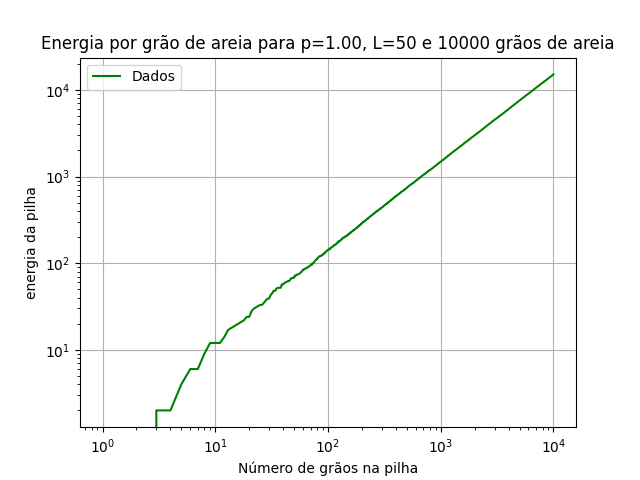
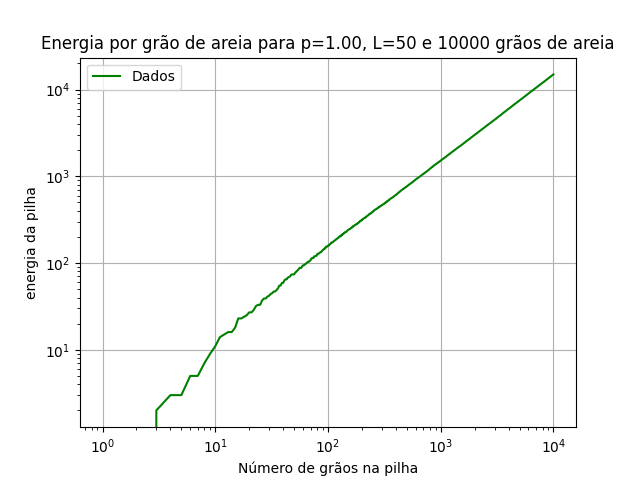
Fit gráfico da energia + Histograma

diff --git a/teste.py b/teste.py
@@ -11,7 +11,7 @@ from atualiza import atualizaSlope as atualiza
 from verifica import *
 
 #tamanho máximo do banco de areia
-L = 100            
+L = 50              
 
 #altura de cada parte da pilha 
 h = np.zeros(L)   
@@ -40,27 +40,22 @@ grao_final = 10000
 deslizamento = 0 
 
 #valor da constante p
-p = 0
+p = 1
 
 energia = np.zeros(grao_final+1)
 
 #valor da energia no início do sistema
 energia[0] = 0
 
-magnitudeAvalanche = np.zeros(grao_final+1)
-
-magnitudeAvalanche[0]= 0 
-
 while grao < grao_final:
     grao += 1               #mais um grão na pilha
     h[0] += 1               #aumenta a altura da primeira casa [0]
     z[0] += 1               #aumenta a diferença de altura da posição 0 com a 1
     e = 0
-    MagAv = 0
 
 
     #verifica se ocorre deslizamento 
-    desliza, avalanche = verifica(z,z_critico,L)
+    desliza, avalanche = verifica(z,z_critico,L) 
 
     #se ocorre desliazamento:
     while desliza == True:
@@ -77,14 +72,9 @@ while grao < grao_final:
             deslizamento += 1                               #contador do número de deslizamentos
         
         desliza,avalanche = verifica(z,z_critico,L)         #verifica de novo se houve deslizamento para sair ou não do loop
-        MagAv += avalanche
-        #print(MagAv)
     #print(e)
     energia[grao] = energia[grao-1] + e                     #calcula a energia do estado atual acumulando ao anterior
-    magnitudeAvalanche[grao] = MagAv                   #calcula a magnitude das avalanches pela entrada do grão
 
-
-#print(magnitudeAvalanche)
 
 #ajustar os dados da pilha de areia
 x = range(0,L)
@@ -105,8 +95,8 @@ def fitSand(x,a,b):
 
 popt, pcov = curve_fit(fitSand, x_areiaFit, y_areiaFit)
 a,b = popt
-erra = np.sqrt(pcov[0,0])        #erro do coeficiente angular
-errb = np.sqrt(pcov[1,1])        #erro do coeficiente linear
+erra = pcov[0,0]        #erro do coeficiente angular
+errb = pcov[1,1]        #erro do coeficiente linear
 
 
 #a = -1.676     b= 128.644 (L= 80, graos = 5*10^3)
@@ -121,61 +111,34 @@ errb = np.sqrt(pcov[1,1])        #erro do coeficiente linear
 
 #a = -1.671     b= 128.429 (L= 400, graos = 5*10^3)
 
-#print(magnitudeAvalanche)
-
-listaAvalanche = []
-for i in range(0,len(magnitudeAvalanche)):
-    if magnitudeAvalanche[i] != 0:
-        listaAvalanche.append(magnitudeAvalanche[i])
-
-#print(listaAvalanche)
-
-plt.fill_between(x,h, color ='gold')
-plt.grid(True)
-plt.title("Pilha de Areia na estabilidade após %i deslizamentos e %i avalanches" %(deslizamento, len(listaAvalanche)))
-plt.xlabel("extensão do banco de areia")
-plt.ylabel("altura da pilha")
-plt.legend()
-plt.savefig('imagens\graficosFinais\Banco(g=%i)(p=%.3f).png' %(grao,p))
-plt.show()
 
 #criar gráfico da pilha de areia com o fit linear
 plt.fill_between(x,h, color ='gold')
 plt.plot(x_areiaFit,fitSand(x_areiaFit,a,b), color = "green", label = "a =%.3f $\pm$ %.3f \nb =%.3f $\pm$ %.3f" %(a,erra,b,errb))
 plt.grid(True)
-plt.title("Pilha de Areia na estabilidade após %i deslizamentos e %i avalanches" %(deslizamento, len(listaAvalanche)))
+plt.title("Pilha de Areia na estabilidade após %i deslizamentos e %i avalanches" %(deslizamento, avalanche))
 plt.xlabel("extensão do banco de areia")
 plt.ylabel("altura da pilha")
 plt.legend()
-plt.savefig('imagens\graficosFinais\BancoFit(g=%i)(p=%.3f).png' %(grao,p))
+#plt.savefig('imagens\Banco(g=%i)(p=%.3f).png' %(grao,p))
 plt.show()
 
 
+
 x_grao = np.array(range(0,grao_final+1))
-x_grao_fit = np.array(range(10,grao_final+1))
 
+def fitEnerg(x,A,B):
+  return A*np.exp(x*B)
 
-energia_fit = []
-for i in range(10,10**4+1):
-    energia_fit.append(energia[i])
-print(energia_fit[0], energia_fit[-1])
+popt, pcov = curve_fit(fitEnerg, x_grao, energia)
+A,B= popt
+errA = pcov[0,0]
+errB = pcov[1,1]
 
-
-logA = np.log(x_grao_fit) #no need for list comprehension since all z values >= 1
-logB = np.log(energia_fit)
-
-popt,pcov = np.polyfit(logA, logB, 1, cov=True) # fit log(y) = m*log(x) + c
-m = popt[0]
-c = popt[1]
-y_fit = np.exp(m*logA + c) # calculate the fitted values of y 
-
-errm = np.sqrt(pcov[0,0])
-errc = np.sqrt(pcov[1,1])
 
 #criar gráfico da relação da energia por grão de areia no sistema
 plt.plot(x_grao,energia, color ='green', label = "Dados" )
-plt.plot(x_grao_fit, y_fit, color = "orange", label = "a =%.3f $\pm$ %.3f \nb =%.3f $\pm$ %.3f" %(m,errm,c,errc))
-#plt.plot(x_grao_fit, yfit)
+#plt.plot(x_grao, fitEnerg(x_grao,A,B), color = "orange", label = "a =%.3f $\pm$ %.3f \nb =%.3f $\pm$ %.3f" %(A,errA,B,errB))
 plt.grid(True)
 plt.title("Energia por grão de areia para p=%.2f, L=%i e %i grãos de areia" %(p,L,grao))
 plt.xlabel("Número de grãos na pilha")
@@ -183,23 +146,11 @@ plt.ylabel("energia da pilha")
 plt.xscale("log")
 plt.yscale("log")
 plt.legend()
-#plt.savefig('imagens\graficos_energiaXgrao\Gráfico(L=%i)(p=%.3f).png' %(L,p))
+plt.savefig('imagens\graficos_energiaXgrao\Gráfico(L=%i)(p=%.3f).png' %(L,p))
 plt.show()
-
-
 
 '''
 a = [-1.676, -1.746, -1.672, -1.684, -1.635, -1.677, -1.733, -1.671]
 print("média de slope é ",np.mean(a))
 print("o desvio padrão do slope é ",np.std(a))
 '''
-
-
-plt.hist(listaAvalanche,bins = 5,ec = "k", density = True)
-#plt.xlim(0,500)
-plt.grid(True)
-plt.xlabel("Tamanho da Avalanche")
-plt.ylabel("Frequência")
-plt.show()
-
-# %%

diff --git a/verifica.py b/verifica.py
@@ -21,7 +21,11 @@ def verifica(z,zc,L):
     #print(avalanche)
     for j in range(0,len(avalanche)-1):
         if avalanche[j]==1 and avalanche[j] == avalanche[j+1] :
+            #print("entrei")
             contadorAva += 1
+            #print(contadorAva)
+    
+    #print(contadorAva)
     
     if contadorDes != 0:
         return True, contadorAva
